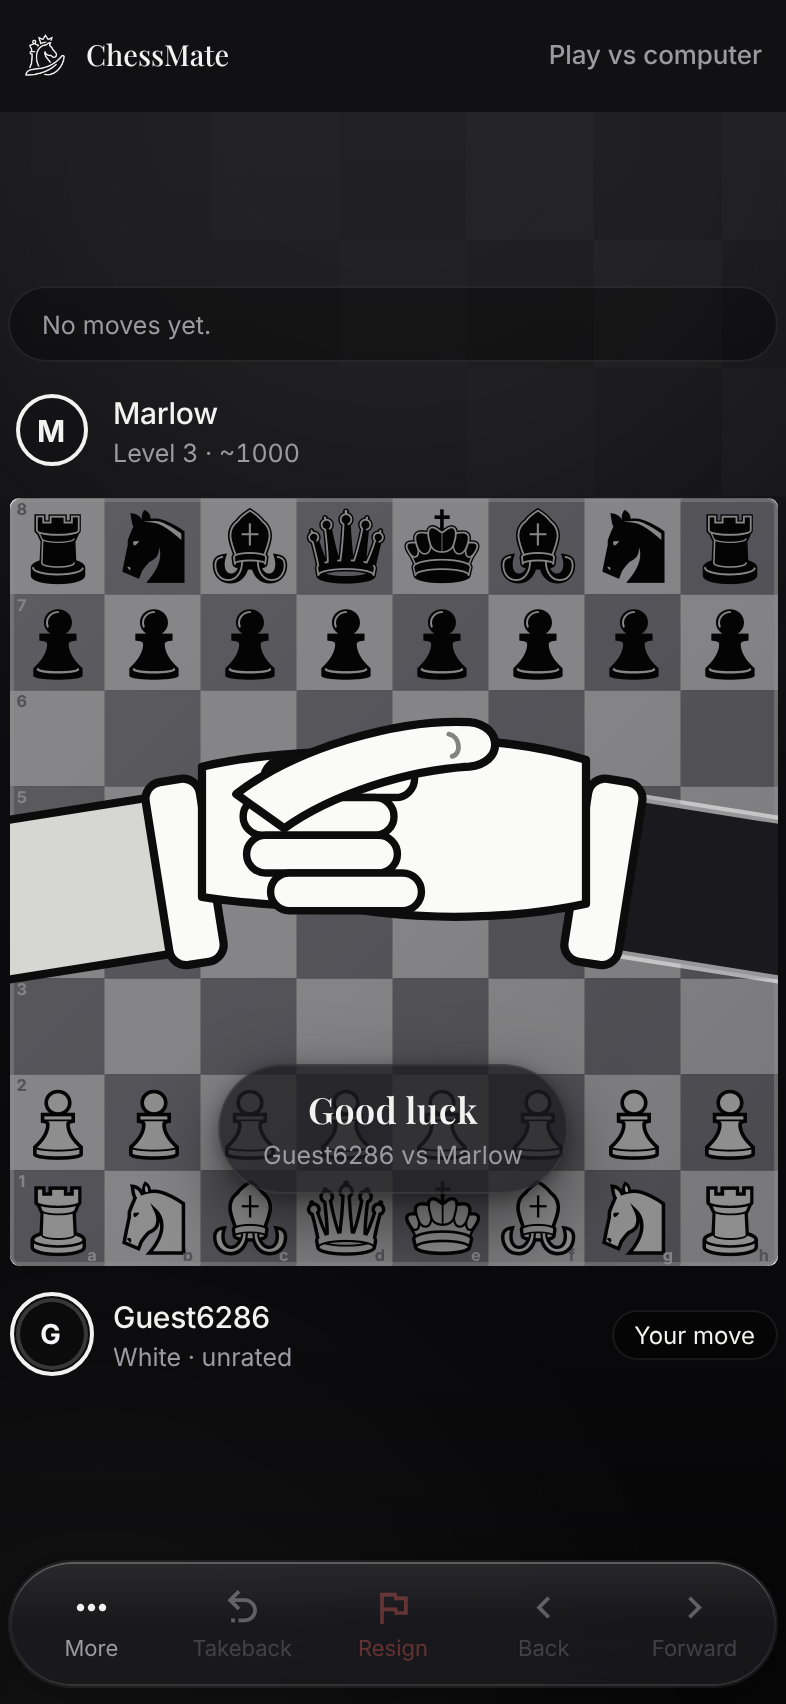
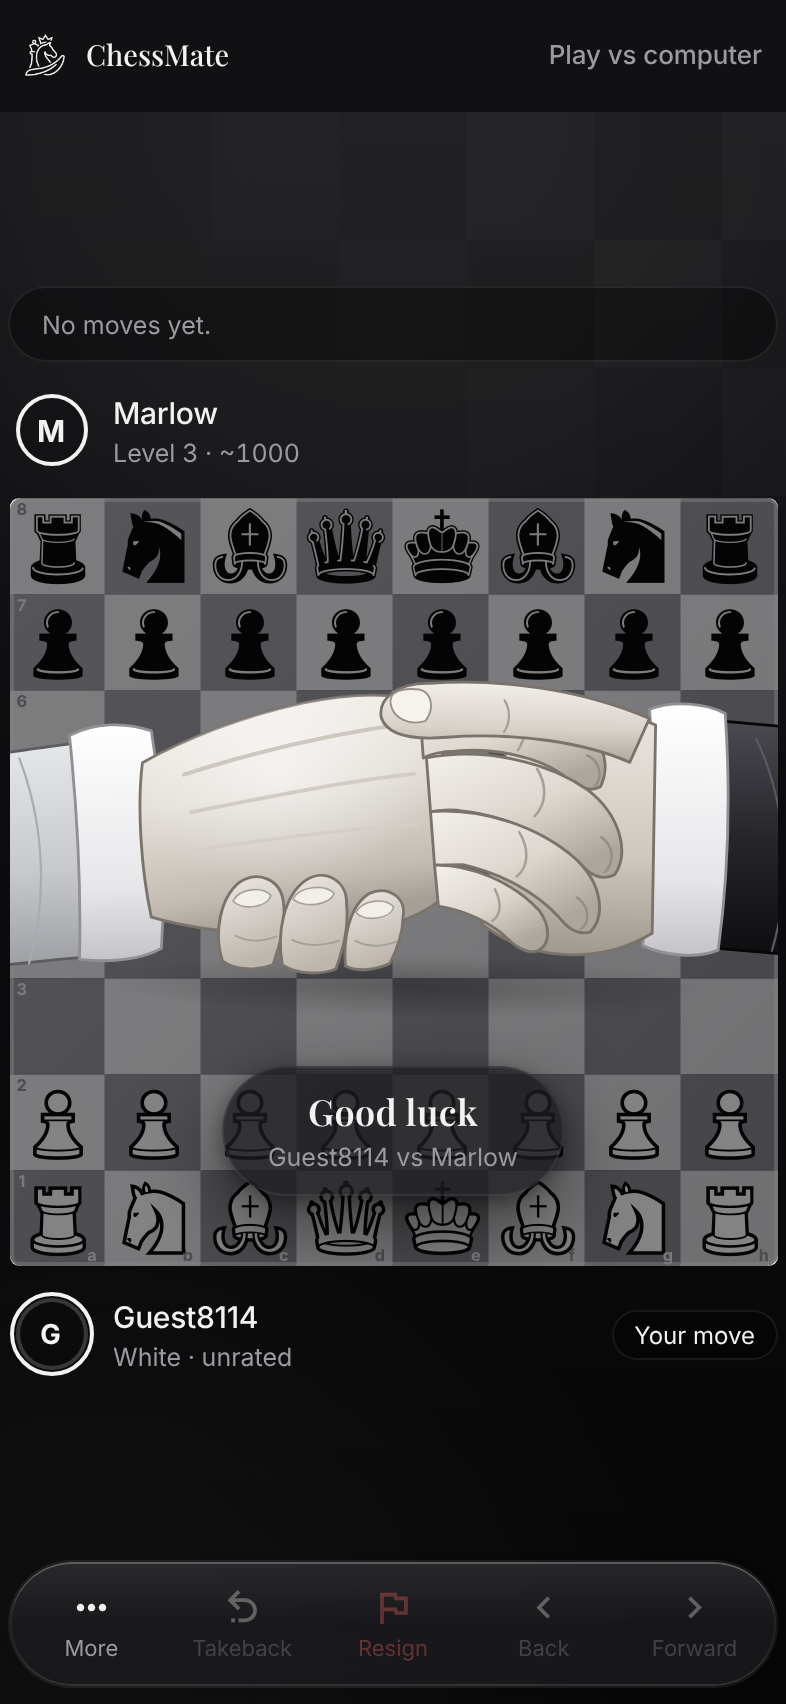
Handshake: natural hands and a real shake
Redrawn as a shaded black-and-white handshake: the back of one hand with
its fingers wrapped round the other palm, the other's thumb over its
knuckles and fingertips curled round its edge, suit sleeves and shirt
cuffs. The arms reach in, grip, and pump three times from the elbows
with each pump smaller, instead of sliding flat shapes up and down.

Claude-Session: https://claude.ai/code/session_01WrkHo5HupAKxnnFKZucVZr

diff --git a/apps/app/src/components/play/GameStartHandshake.tsx b/apps/app/src/components/play/GameStartHandshake.tsx
@@ -1,18 +1,17 @@
 import { useCallback, useEffect, useState } from 'react';
 import { StyleSheet, View } from 'react-native';
 import Animated, { Easing, useAnimatedStyle, useReducedMotion, useSharedValue, withDelay, withSequence, withTiming } from 'react-native-reanimated';
-import Svg, { G, Path, Rect } from 'react-native-svg';
+import Svg, { Defs, Ellipse, G, LinearGradient, Path, RadialGradient, Stop } from 'react-native-svg';
 
 import { useT } from '@/i18n';
 import { Text, rimShadow, shadows, useColors } from '@/ui';
 
 /** How long the intro lasts from mount to gone, in ms. */
 export const HANDSHAKE_MS = 1500;
-const ENTER_MS = 420;
-const SHAKE_AT = 380;
-const SHAKE_LEG = 110;
-const LEAVE_AT = 1150;
-const LEAVE_MS = 330;
+const ENTER_MS = 360;
+const SHAKE_AT = 400;
+const LEAVE_AT = 1200;
+const LEAVE_MS = 290;
 /** When a move is played during the intro it gets out of the way this fast. */
 const CUT_MS = 160;
 
@@ -46,86 +45,191 @@ export function useGameStartHandshake(key: string | null, moves: number) {
   return { active, cut: active && moves > 0, done };
 }
 
-// Black-and-white figures: the white player's arm comes in from the left in a silver
-// sleeve, the black player's from the right in a black one, and they meet in a clasp.
+// Black-and-white figures drawn like a photo in monochrome: the white player's arm comes in
+// from the left in a light-grey suit, the black player's from the right in a black one. The
+// left hand shows its back, fingers wrapped round the other palm; the right hand's thumb lies
+// over its knuckles and its fingertips curl round the palm edge, as in a real handshake.
 // The view box crops to the clasp; the sleeves run past it and are cut by the board's edge.
-const VB_X = 20;
-const VB_Y = 10;
+const VB_X = 60;
+const VB_Y = 40;
 const VB_W = 280;
-const VB_H = 140;
-const INK = '#0C0C0D';
-const PAPER = '#FAFAF8';
-const SILVER = '#D6D7D3';
-const COAL = '#1A1A1E';
-const SW = 2.4;
-const FINGERS: [number, number][] = [
-  [122, 62],
-  [116, 73],
-  [117, 84],
-  [124, 95],
-];
+const VB_H = 154;
+const VIEW_BOX = `${VB_X} ${VB_Y} ${VB_W} ${VB_H}`;
+const LINE = '#7A736B';
+const CREASE = '#A69F97';
 
-/** The white player's arm and palm (under the clasp). */
+/** The black player's sleeve, cuff and the heel of the hand, behind the clasp. */
+function RightBack() {
+  return (
+    <Svg width="100%" height="100%" viewBox={VIEW_BOX}>
+      <Defs>
+        <LinearGradient id="hsSuitR" x1="0" y1="0" x2="0" y2="1">
+          <Stop offset="0" stopColor="#4A4A51" />
+          <Stop offset="0.45" stopColor="#25252A" />
+          <Stop offset="1" stopColor="#08080A" />
+        </LinearGradient>
+        <LinearGradient id="hsCuffR" x1="0" y1="0" x2="0" y2="1">
+          <Stop offset="0" stopColor="#FFFFFF" />
+          <Stop offset="0.7" stopColor="#E6E6E9" />
+          <Stop offset="1" stopColor="#C4C4C8" />
+        </LinearGradient>
+        <LinearGradient id="hsHeel" x1="0" y1="0" x2="0" y2="1">
+          <Stop offset="0" stopColor="#EBE6E0" />
+          <Stop offset="0.6" stopColor="#CFC8C0" />
+          <Stop offset="1" stopColor="#9F988F" />
+        </LinearGradient>
+        <RadialGradient id="hsShadow" cx="0.5" cy="0.5" r="0.5">
+          <Stop offset="0" stopColor="#000" stopOpacity={0.25} />
+          <Stop offset="1" stopColor="#000" stopOpacity={0} />
+        </RadialGradient>
+      </Defs>
+      <Ellipse cx={204} cy={178} rx={96} ry={10} fill="url(#hsShadow)" />
+      <G strokeWidth={0.9} strokeLinejoin="round" strokeLinecap="round">
+        <Path d="M296 92 C 330 94, 370 98, 420 104 L 420 176 C 370 170, 330 166, 296 164 Z" fill="url(#hsSuitR)" stroke="#060607" />
+        <Path d="M314 98 C 324 118, 326 144, 320 165" fill="none" stroke="#5A5A62" strokeWidth={0.7} />
+        <Path d="M280 89 C 288 86, 298 87, 304 90 C 306 114, 306 140, 303 165 C 296 168, 286 167, 279 164 C 282 140, 282 114, 280 89 Z" fill="url(#hsCuffR)" stroke="#909095" />
+        <Path d="M282 94 C 268 88, 250 88, 236 92 L 228 158 C 244 170, 266 170, 282 160 Z" fill="url(#hsHeel)" stroke={LINE} />
+      </G>
+    </Svg>
+  );
+}
+
+/** The white player's arm: sleeve, cuff, the back of the hand and the four fingers wrapped round. */
 function LeftArm() {
+  const hand =
+    'M121 106 C 134 99, 152 92, 172 88 C 188 85, 202 85, 211 89 C 218 102, 220 128, 216 150 C 204 160, 186 162, 168 161 C 152 161, 136 159, 123 155 C 120 140, 119 120, 121 106 Z';
   return (
-    <G strokeLinejoin="round" strokeLinecap="round">
-      <G transform="rotate(-9 160 84)">
-        <Rect x={-30} y={62} width={128} height={46} rx={8} fill={SILVER} stroke={INK} strokeWidth={SW} />
-        <Rect x={90} y={58} width={16} height={54} rx={5} fill={PAPER} stroke={INK} strokeWidth={SW} />
+    <Svg width="100%" height="100%" viewBox={VIEW_BOX}>
+      <Defs>
+        <LinearGradient id="hsSuitL" x1="0" y1="0" x2="0" y2="1">
+          <Stop offset="0" stopColor="#E6E7E9" />
+          <Stop offset="0.5" stopColor="#C6C8CC" />
+          <Stop offset="1" stopColor="#8C8E93" />
+        </LinearGradient>
+        <LinearGradient id="hsCuffL" x1="0" y1="0" x2="0" y2="1">
+          <Stop offset="0" stopColor="#FFFFFF" />
+          <Stop offset="0.7" stopColor="#E6E6E9" />
+          <Stop offset="1" stopColor="#C4C4C8" />
+        </LinearGradient>
+        <LinearGradient id="hsBack" x1="0" y1="0" x2="0.2" y2="1">
+          <Stop offset="0" stopColor="#F6F3EF" />
+          <Stop offset="0.45" stopColor="#E4DFD9" />
+          <Stop offset="0.85" stopColor="#C3BCB4" />
+          <Stop offset="1" stopColor="#A69F97" />
+        </LinearGradient>
+        <RadialGradient id="hsGloss" cx="0.45" cy="0.3" r="0.5">
+          <Stop offset="0" stopColor="#FFF" stopOpacity={0.55} />
+          <Stop offset="1" stopColor="#FFF" stopOpacity={0} />
+        </RadialGradient>
+        <LinearGradient id="hsFinger" x1="0" y1="0" x2="0.6" y2="1">
+          <Stop offset="0" stopColor="#F3EFEA" />
+          <Stop offset="0.55" stopColor="#DDD7D0" />
+          <Stop offset="1" stopColor="#ADA69E" />
+        </LinearGradient>
+      </Defs>
+      <G stroke={LINE} strokeWidth={0.9} strokeLinejoin="round" strokeLinecap="round">
+        <Path d="M-20 114 C 20 110, 60 104, 104 99 L 106 167 C 60 170, 20 176, -20 182 Z" fill="url(#hsSuitL)" stroke="#5C5D62" />
+        <Path d="M82 104 C 90 126, 90 150, 84 169" fill="none" stroke="#A9ABB0" strokeWidth={0.7} />
+        <Path d="M98 97 C 106 93, 116 93, 124 96 C 127 118, 128 142, 126 165 C 118 169, 108 169, 100 168 C 101 144, 100 120, 98 97 Z" fill="url(#hsCuffL)" stroke="#909095" />
+        <Path d={hand} fill="url(#hsBack)" />
+        <Path d={hand} fill="url(#hsGloss)" stroke="none" />
+        <Path d="M134 110 C 154 104, 180 98, 205 95" fill="none" stroke="#CDC7C0" strokeWidth={1.3} />
+        <Path d="M136 122 C 158 118, 184 113, 207 111" fill="none" stroke="#D2CCC5" strokeWidth={1.2} />
+        <Path d="M138 134 C 160 131, 186 128, 208 127" fill="none" stroke="#D4CEC7" strokeWidth={1.1} />
+        <Path d="M209 88 C 222 83, 242 84, 256 92 C 266 98, 270 108, 266 116 C 262 118, 258 116, 254 112 C 246 106, 232 103, 220 104 C 216 104, 212 105, 210 106 Z" fill="url(#hsFinger)" />
+        <Path d="M211 106 C 228 103, 248 107, 262 117 C 272 125, 275 137, 270 144 C 266 146, 262 144, 259 140 C 250 131, 236 125, 222 123 C 218 122, 214 123, 212 123 Z" fill="url(#hsFinger)" />
+        <Path d="M212 123 C 228 122, 246 128, 258 139 C 266 147, 267 157, 262 162 C 258 163, 255 161, 252 157 C 245 149, 234 143, 222 140 L 213 140 Z" fill="url(#hsFinger)" />
+        <Path d="M213 140 C 225 140, 238 146, 246 155 C 250 161, 249 167, 244 168 C 240 168, 237 165, 234 162 C 228 157, 220 154, 214 153 Z" fill="url(#hsFinger)" />
+        <G fill="none" stroke={CREASE} strokeWidth={0.8}>
+          <Path d="M240 89 C 243 94, 243 100, 240 104" />
+          <Path d="M246 110 C 249 115, 249 121, 245 125" />
+          <Path d="M240 130 C 243 135, 243 141, 239 144" />
+          <Path d="M232 148 C 234 152, 234 156, 231 158" />
+          <Path d="M262 106 C 266 108, 267 113, 264 116" stroke="#968E86" />
+          <Path d="M266 132 C 270 135, 270 140, 267 143" stroke="#968E86" />
+          <Path d="M258 151 C 262 154, 262 159, 259 161" stroke="#968E86" />
+        </G>
       </G>
-      <Path d="M104 64 C 130 58, 172 58, 196 64 C 208 67, 208 98, 196 101 C 172 106, 130 106, 104 102 Z" fill={PAPER} stroke={INK} strokeWidth={SW} />
-    </G>
+    </Svg>
   );
 }
 
-/** The black player's arm, the back of the hand and the fingers wrapped around the other palm. */
-function RightArm({ rim }: { rim: string }) {
+/** The black player's thumb over the other hand's knuckles, and fingertips curled round its palm edge. */
+function RightFront() {
+  const tips = [
+    'M146 171 C 143 162, 145 151, 151 146 C 157 142, 164 145, 165 152 C 166 159, 164 166, 162 172 C 157 174, 150 174, 146 171 Z',
+    'M165 172 C 163 162, 165 150, 172 145 C 178 141, 185 145, 185 152 C 186 160, 184 167, 182 173 C 177 175, 170 175, 165 172 Z',
+    'M185 172 C 184 163, 186 153, 192 149 C 198 146, 204 150, 203 156 C 203 162, 201 167, 199 171 C 195 173, 189 174, 185 172 Z',
+  ];
+  const nails = [
+    'M149 152 C 151 148, 158 147, 161 150 C 160 154, 152 155, 149 152 Z',
+    'M168 151 C 170 147, 178 146, 181 149 C 180 153, 171 154, 168 151 Z',
+    'M188 155 C 190 151, 197 150, 200 153 C 199 157, 191 158, 188 155 Z',
+  ];
   return (
-    <G strokeLinejoin="round" strokeLinecap="round">
-      <G transform="rotate(9 160 84)">
-        <Rect x={222} y={62} width={128} height={46} rx={8} fill={COAL} stroke={rim} strokeWidth={SW} />
-        <Rect x={214} y={58} width={16} height={54} rx={5} fill={PAPER} stroke={INK} strokeWidth={SW} />
+    <Svg width="100%" height="100%" viewBox={VIEW_BOX}>
+      <Defs>
+        <LinearGradient id="hsTip" x1="0.3" y1="1" x2="0" y2="0">
+          <Stop offset="0" stopColor="#BDB6AE" />
+          <Stop offset="1" stopColor="#ECE8E3" />
+        </LinearGradient>
+        <LinearGradient id="hsThumb" x1="0" y1="0" x2="0" y2="1">
+          <Stop offset="0" stopColor="#F2EEE9" />
+          <Stop offset="0.6" stopColor="#D8D1CA" />
+          <Stop offset="1" stopColor="#AEA79F" />
+        </LinearGradient>
+      </Defs>
+      <G stroke={LINE} strokeWidth={0.9} strokeLinejoin="round" strokeLinecap="round">
+        {tips.map((d) => (
+          <Path key={d} d={d} fill="url(#hsTip)" />
+        ))}
+        {nails.map((d) => (
+          <Path key={d} d={d} fill="#F2EEE9" stroke={CREASE} strokeWidth={0.5} />
+        ))}
+        <G fill="none" stroke={CREASE} strokeWidth={0.6}>
+          <Path d="M150 163 C 154 165, 158 165, 163 163" />
+          <Path d="M168 164 C 172 166, 177 166, 183 164" />
+          <Path d="M188 164 C 192 166, 196 166, 201 164" />
+        </G>
+        <Path d="M274 106 C 260 100, 238 97, 216 99 C 206 100, 197 99, 195 93 C 194 87, 200 82, 210 82 C 232 80, 258 83, 280 92 Z" fill="url(#hsThumb)" />
+        <Path d="M198 89 C 197 85, 201 83.5, 207 84 C 211 85, 212 90, 209 94 C 204 95.5, 199 93.5, 198 89 Z" fill="#F6F3EF" stroke="#9A9189" strokeWidth={0.6} />
+        <Path d="M234 87 C 236 90, 236 94, 234 97" fill="none" stroke={CREASE} strokeWidth={0.7} />
       </G>
-      <Path d="M216 62 C 196 56, 168 54, 146 58 L 140 104 C 168 110, 198 108, 216 104 Z" fill={PAPER} stroke={INK} strokeWidth={SW} />
-      {FINGERS.map(([x, y]) => (
-        <Rect key={y} x={x} y={y} width={44} height={11} rx={5.5} fill={PAPER} stroke={INK} strokeWidth={SW * 0.9} />
-      ))}
-    </G>
-  );
-}
-
-/** The white player's thumb, resting over the back of the other hand. */
-function LeftThumb() {
-  return (
-    <G strokeLinejoin="round" strokeLinecap="round">
-      <Path d="M114 72 C 132 58, 162 50, 182 51 C 192 52, 192 63, 182 64 C 164 65, 142 72, 128 82 Z" fill={PAPER} stroke={INK} strokeWidth={SW} />
-      <Path d="M176 54.5 C 179 55, 180 60, 177 61" fill="none" stroke={INK} strokeWidth={1.4} opacity={0.5} />
-    </G>
+    </Svg>
   );
 }
 
 /**
- * Two hands meet over the board and shake once when a game begins, with a
- * glass "Good luck" tag. About 1.5 s, drawn over the board only, and touches
- * pass straight through so the first move (or a premove) is never held up.
- * A move made during the intro fades it out at once. When it ends it
- * unmounts, so it costs nothing while the game is played.
+ * Two hands meet over the board and shake when a game begins, with a glass
+ * "Good luck" tag. The arms reach in, grip, and pump three times from the
+ * elbows, each pump smaller than the last, then let go. About 1.5 s, drawn
+ * over the board only, and touches pass straight through so the first move
+ * (or a premove) is never held up. A move made during the intro fades it out
+ * at once. When it ends it unmounts, so it costs nothing while the game is played.
  */
 export function GameStartHandshake({ size, white, black, cut, onDone }: { size: number; white?: string; black?: string; cut?: boolean; onDone?: () => void }) {
   const tr = useT();
   const c = useColors();
   const dark = c.scheme === 'dark';
   const enter = useSharedValue(0);
+  const grip = useSharedValue(0);
   const shake = useSharedValue(0);
   const leave = useSharedValue(0);
 
   useEffect(() => {
-    const out = Easing.out(Easing.cubic);
-    enter.set(withTiming(1, { duration: ENTER_MS, easing: out }));
-    const leg = { duration: SHAKE_LEG, easing: Easing.inOut(Easing.sin) };
-    shake.set(withDelay(SHAKE_AT, withSequence(withTiming(-1, leg), withTiming(1, leg), withTiming(-1, leg), withTiming(0.6, leg), withTiming(0, leg))));
+    enter.set(withTiming(1, { duration: ENTER_MS, easing: Easing.out(Easing.cubic) }));
+    // A gentle squeeze as the hands close.
+    grip.set(withDelay(ENTER_MS - 60, withSequence(withTiming(1, { duration: 110, easing: Easing.out(Easing.quad) }), withTiming(0, { duration: 220 }))));
+    // Three pumps from the elbows, each smaller and a touch slower, then still.
+    const leg = (ms: number) => ({ duration: ms, easing: Easing.inOut(Easing.sin) });
+    shake.set(
+      withDelay(
+        SHAKE_AT,
+        withSequence(withTiming(1, leg(120)), withTiming(-0.85, leg(160)), withTiming(0.6, leg(150)), withTiming(-0.35, leg(140)), withTiming(0.12, leg(110)), withTiming(0, leg(100))),
+      ),
+    );
     leave.set(withDelay(LEAVE_AT, withTiming(1, { duration: LEAVE_MS, easing: Easing.in(Easing.quad) })));
-  }, [enter, shake, leave]);
+  }, [enter, grip, shake, leave]);
 
   useEffect(() => {
     if (!cut) return;
@@ -134,18 +238,24 @@ export function GameStartHandshake({ size, white, black, cut, onDone }: { size: 
     return () => clearTimeout(id);
   }, [cut, leave, onDone]);
 
-  const artW = Math.round(size * 1.25);
+  // Wider than the board, so the sleeves run off its edges.
+  const artW = Math.round(size * 1.15);
   const artH = Math.round((artW * VB_H) / VB_W);
-  const travel = size * 0.62;
-  const lift = artH * 0.035;
+  const reach = size * 0.16;
+  const lift = artH * 0.05;
 
   const veil = useAnimatedStyle(() => ({ opacity: Math.min(1, enter.value * 1.6) * (1 - leave.value) }));
   const clasp = useAnimatedStyle(() => ({
-    opacity: 1 - leave.value,
-    transform: [{ translateY: shake.value * lift }, { scale: 1 - leave.value * 0.06 }],
+    opacity: Math.min(1, enter.value * 1.8) * (1 - leave.value),
+    transform: [{ translateY: -shake.value * lift }, { scaleY: 1 - grip.value * 0.015 }, { scale: 1 - leave.value * 0.04 }],
   }));
-  const fromLeft = useAnimatedStyle(() => ({ transform: [{ translateX: -(1 - enter.value) * travel - leave.value * 10 }] }));
-  const fromRight = useAnimatedStyle(() => ({ transform: [{ translateX: (1 - enter.value) * travel + leave.value * 10 }] }));
+  // Each forearm turns about its own elbow (off the board's edge), so the clasp rises and falls on an arc.
+  const leftArm = useAnimatedStyle(() => ({
+    transform: [{ translateX: -(1 - enter.value) * reach - leave.value * 8 }, { rotate: `${-shake.value * 2.2}deg` }],
+  }));
+  const rightArm = useAnimatedStyle(() => ({
+    transform: [{ translateX: (1 - enter.value) * reach + leave.value * 8 }, { rotate: `${shake.value * 2.2}deg` }],
+  }));
   const tag = useAnimatedStyle(() => {
     const k = Math.max(0, Math.min(1, (enter.value - 0.55) / 0.45));
     return { opacity: k * (1 - leave.value), transform: [{ translateY: (1 - k) * 8 }] };
@@ -154,23 +264,17 @@ export function GameStartHandshake({ size, white, black, cut, onDone }: { size: 
   const layer = { position: 'absolute' as const, width: artW, height: artH };
   return (
     <View pointerEvents="none" style={[StyleSheet.absoluteFill, styles.root]} accessible accessibilityLabel={tr('game.intro.a11y')} accessibilityLiveRegion="polite">
-      <Animated.View style={[StyleSheet.absoluteFill, { backgroundColor: dark ? 'rgba(8,8,10,0.46)' : 'rgba(250,250,248,0.5)' }, veil]} />
+      <Animated.View style={[StyleSheet.absoluteFill, { backgroundColor: dark ? 'rgba(8,8,10,0.5)' : 'rgba(250,250,248,0.55)' }, veil]} />
       <View style={styles.center}>
         <Animated.View style={[{ width: artW, height: artH }, clasp]}>
-          <Animated.View style={[layer, fromLeft]}>
-            <Svg width={artW} height={artH} viewBox={`${VB_X} ${VB_Y} ${VB_W} ${VB_H}`}>
-              <LeftArm />
-            </Svg>
+          <Animated.View style={[layer, styles.rightElbow, rightArm]}>
+            <RightBack />
           </Animated.View>
-          <Animated.View style={[layer, fromRight]}>
-            <Svg width={artW} height={artH} viewBox={`${VB_X} ${VB_Y} ${VB_W} ${VB_H}`}>
-              <RightArm rim={dark ? 'rgba(255,255,255,0.55)' : INK} />
-            </Svg>
+          <Animated.View style={[layer, styles.leftElbow, leftArm]}>
+            <LeftArm />
           </Animated.View>
-          <Animated.View style={[layer, fromLeft]}>
-            <Svg width={artW} height={artH} viewBox={`${VB_X} ${VB_Y} ${VB_W} ${VB_H}`}>
-              <LeftThumb />
-            </Svg>
+          <Animated.View style={[layer, styles.rightElbow, rightArm]}>
+            <RightFront />
           </Animated.View>
         </Animated.View>
         <Animated.View style={tag}>
@@ -196,4 +300,6 @@ const styles = StyleSheet.create({
   center: { flex: 1, alignItems: 'center', justifyContent: 'center', gap: 6 },
   tag: { paddingHorizontal: 22, paddingVertical: 10, alignItems: 'center', gap: 2, maxWidth: 320, borderRadius: 999, borderWidth: StyleSheet.hairlineWidth },
   tagTitle: { fontSize: 18, letterSpacing: 0.2 },
+  leftElbow: { transformOrigin: '0% 70%' },
+  rightElbow: { transformOrigin: '100% 70%' },
 });

diff --git a/README.md b/README.md
@@ -85,7 +85,7 @@ The app opens on a welcome screen: create an account, sign in, or tap **Continue
 
 **Liquid Glass look:** the app's bars, header buttons, glass buttons and sheets use Apple's native Liquid Glass on iOS 26 and later (`expo-glass-effect`, included in Expo Go, so no new build is needed). After pulling, run `pnpm install` and start once with `pnpm dev:app --clear`. On older iOS, Android and the web the same surfaces are drawn as blurred glass with a lit edge. Turning on *Reduce Transparency* (iOS Settings, Accessibility, Display & Text Size) switches glass to solid panels.
 
-**Handshake at game start:** when an online, computer or pass-and-play game begins, two hands (a silver sleeve for White, a black one for Black) meet over the board and shake once, with a "Good luck" tag. It lasts about 1.5 seconds, touches pass through it so you can make your first move straight away (a move fades it out at once), and it is skipped when *Reduce Motion* is on. It uses only `react-native-svg` and Reanimated, both in Expo Go, so `git pull` and `pnpm dev:app` are enough; no new build is needed. A reconnect to a game already under way does not replay it.
+**Handshake at game start:** when an online, computer or pass-and-play game begins, two hands (a light-grey suit sleeve for White, a black one for Black) reach in over the board, grip and shake from the elbows, with a "Good luck" tag. It lasts about 1.5 seconds, touches pass through it so you can make your first move straight away (a move fades it out at once), and it is skipped when *Reduce Motion* is on. It uses only `react-native-svg` and Reanimated, both in Expo Go, so `git pull` and `pnpm dev:app` are enough; no new build is needed. A reconnect to a game already under way does not replay it.
 
 **Judging smoothness on a phone:** `pnpm dev:app` runs the app in development mode, where JavaScript is several times slower than in a real build (extra checks, no minifying). Board dragging and piece slides run on the UI thread, so they stay smooth either way, but selecting a piece, legal-move dots and screen changes feel slower than they will in the store app. To see real speed in Expo Go, start Expo with `pnpm dev:app --no-dev --minify` (reload the app after switching).
 
